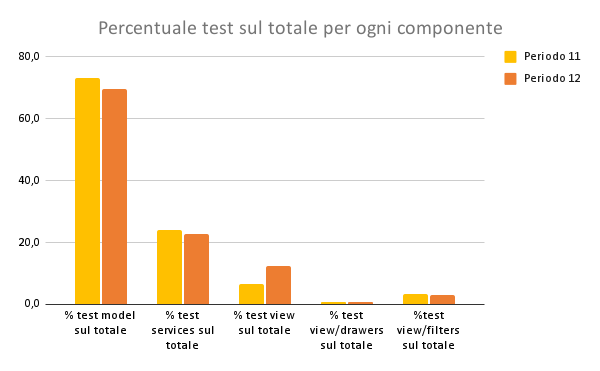
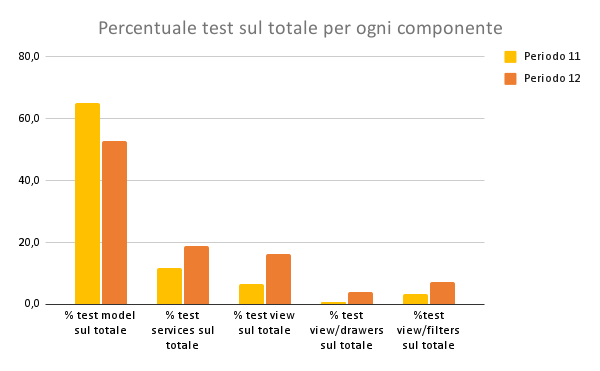
aggiornamento cruscotto 12

diff --git a/src/documenti/esterni/PdQ/contenuti/resoconto.tex b/src/documenti/esterni/PdQ/contenuti/resoconto.tex
@@ -23,7 +23,7 @@
     \subsubsection{Estimated at Completion}
     \begin{figure}[H]
       \centering
-      \includegraphics[scale=0.60]{Estimated at Completion.png}
+      \includegraphics[scale=0.60]{Stima a finire.png}
       \caption{Valore stimato per la realizzazione del progetto}
     \end{figure}
 
@@ -44,14 +44,14 @@
     \subsubsection{Schedule Variance e Budget Variance}
     \begin{figure}[H]
       \centering
-      \includegraphics[scale=0.60]{Schedule Variance and Budget Variance.png}
+      \includegraphics[scale=0.60]{Schedule Variance e Budget Variance.png}
       \caption{Schedule Variance e Budget Variance per incremento}
     \end{figure}
 
     \subsubsection{Copertura e stabilità dei requisiti}
     \begin{figure}[H]
       \centering
-      \includegraphics[scale=0.60]{Requirements Stability Index e Satisfied Obligatory Requirements.png}
+      \includegraphics[scale=0.60]{Indice di Stabilità dei Requisiti e Requisiti Obbligatori Soddisfatti.png}
       \caption{Percentuale di copertura e stabilità dei requisiti}
     \end{figure}
 
@@ -93,8 +93,14 @@
     \subsubsection{Copertura dei test}
     \begin{figure}[H]
       \centering
-      \includegraphics[scale=0.60]{Copertura dei test.png}
-      \caption{Copertura offerta dai test}
+      \includegraphics[scale=0.50]{Copertura dei test.png}
+      \caption{Copertura offerta dai test per ogni componente}
+    \end{figure}
+
+    \begin{figure}[H]
+      \centering
+      \includegraphics[scale=0.60]{Copertura dei test (senza drawer).png}
+      \caption{Copertura offerta dai test trascurando la componente "drawer"}
     \end{figure}
 
     \subsubsection{Numero di test per componente}

diff --git a/src/documenti/esterni/PdQ/contenuti/modifiche.tex b/src/documenti/esterni/PdQ/contenuti/modifiche.tex
@@ -7,6 +7,8 @@
   \hline
   \rowcolor[HTML]{036400}
   \textcolor[HTML]{FFFFFF}{\textbf{Versione}} & \textcolor[HTML]{FFFFFF}{\textbf{Data}} & \textcolor[HTML]{FFFFFF}{\textbf{Autore}}  & \textcolor[HTML]{FFFFFF}{\textbf{Verificatore}} & \textcolor[HTML]{FFFFFF}{\textbf{Modifica}}    \\ \hline
+  \rowcolor[HTML]{EFEFEF}
+  v2.0.3        & 08/06/2022    & Emanuele Pase    &            & Modifiche sezione "Resoconto attività di verifica"            \\ \hline
   \rowcolor[HTML]{C0C0C0}
   v2.0.2        & 29/05/2022  & Riccardo Contin  &   Marco Mazzucato   & Modifiche sezione "Testing"                 \\ \hline
   \rowcolor[HTML]{EFEFEF}

diff --git a/src/documenti/esterni/PdQ/contenuti/listaDistribuzione.tex b/src/documenti/esterni/PdQ/contenuti/listaDistribuzione.tex
@@ -2,7 +2,7 @@
 	\begin{tabular}{r|L{4cm}}
 		\multicolumn{2}{c}{\textbf{Informazioni sul documento} } \\
 		\hline
-		\textbf{Versione}			& V2.0.2 \\
+		\textbf{Versione}			& V2.0.3 \\
 		\textbf{Uso}		& Esterno \\
 		\textbf{Data approvazione} 			& 04/05/2022 \\
 		\textbf{Distribuzione} 	&	Prof.\textit{Vardanega Tullio} \newline Prof.\textit{Cardin Riccardo} \newline \textit{Zucchetti S.p.A.} \newline Gruppo \textit{MERL} \\
